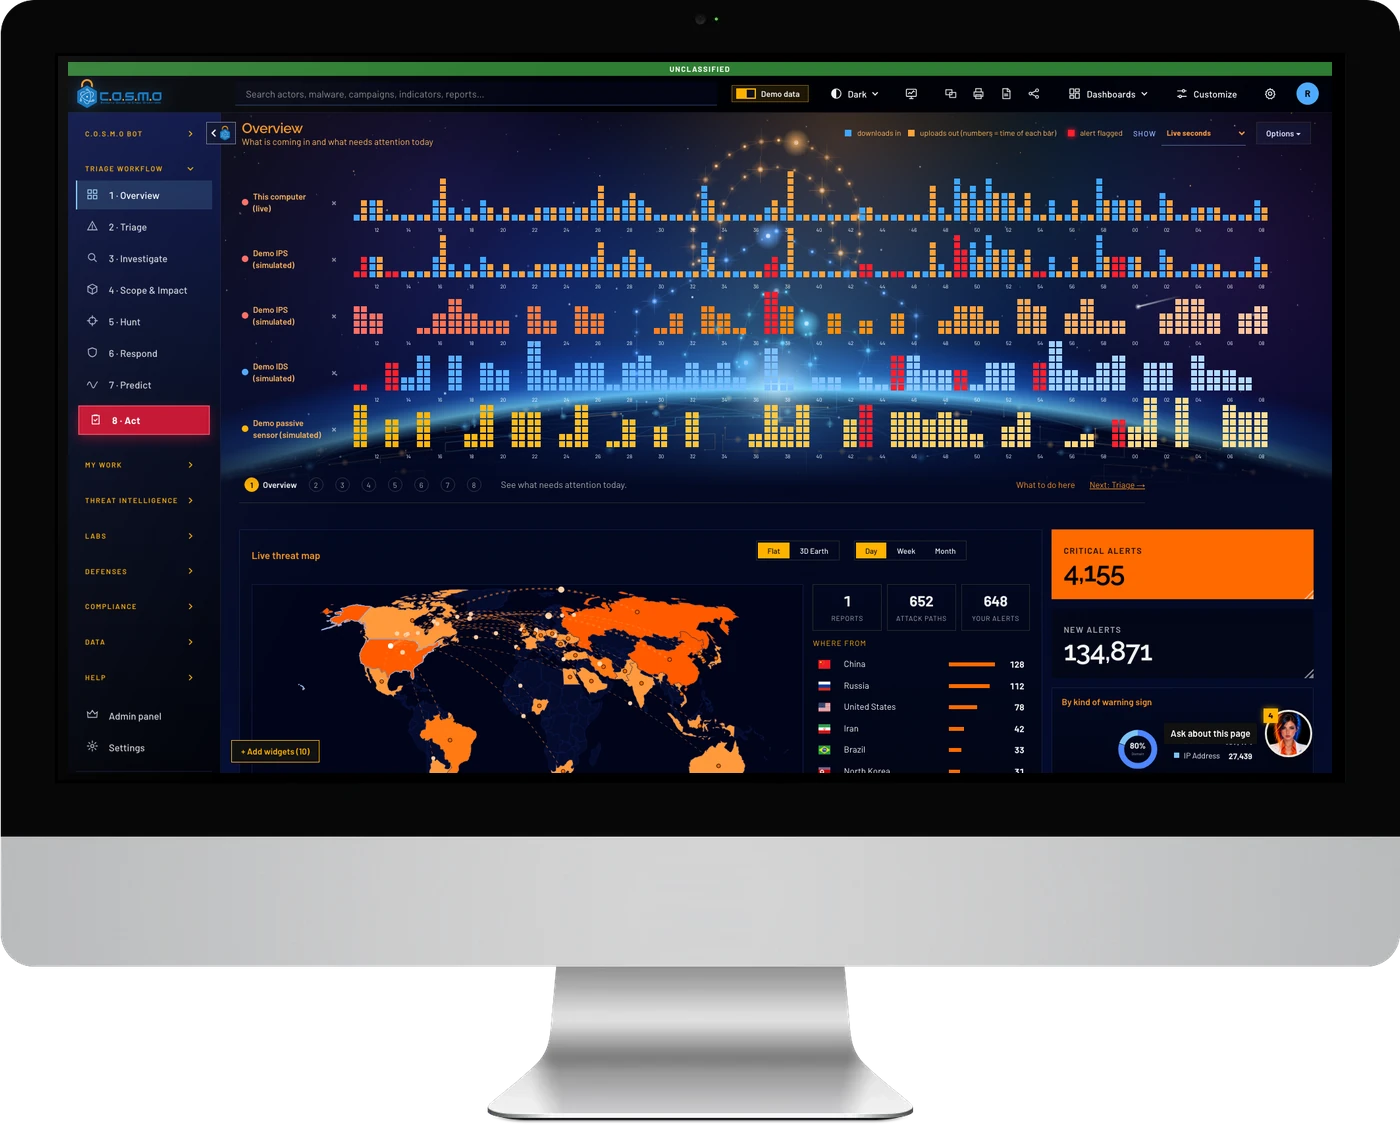
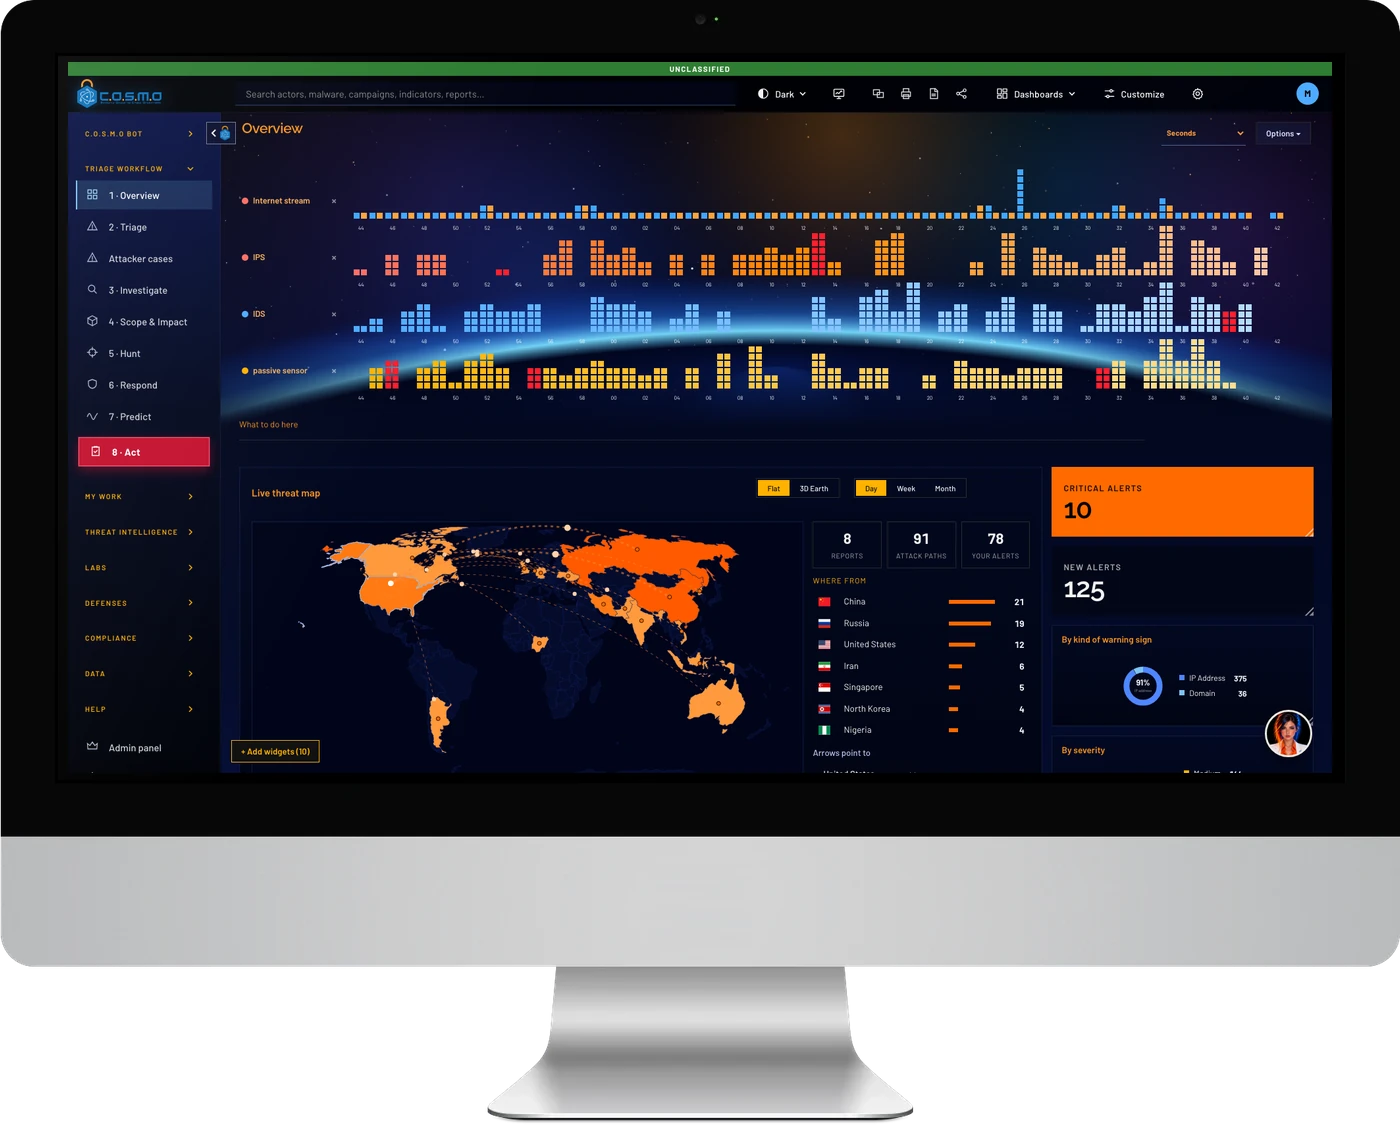
New C.O.S.M.O screenshots for the calm interface (website pictures, bot pages, laptop and iMac mockups); cache tags bumped

diff --git a/index.html b/index.html
@@ -87,7 +87,7 @@
             <p class="lead">The AI-driven cyber intelligence platform. It triages every alert, takes malware apart, assigns the work and writes the response playbooks. Your analysts approve.</p>
             <div class="btn-row"><a class="btn btn-primary" href="products.html#cosmo">About C.O.S.M.O <svg class="" aria-hidden="true" focusable="false"><use href="#i-arrow"/></svg></a><a class="btn btn-outline" href="contact.html">Ask for a demo</a></div>
           </div>
-          <div class="visual"><div class="duo"><figure class="device monitor mocked"><img src="assets/img/mock/cosmo-triage-imac.webp?v=20261103g" loading="lazy" alt="C.O.S.M.O Triage screen ranking alerts"></figure><figure class="device laptop mocked"><img src="assets/img/mock/cosmo-overview-macbook.webp?v=20261103g" loading="lazy" alt="C.O.S.M.O Overview screen with live threat map"></figure></div></div>
+          <div class="visual"><div class="duo"><figure class="device monitor mocked"><img src="assets/img/mock/cosmo-triage-imac.webp?v=20261110a" loading="lazy" alt="C.O.S.M.O Triage screen ranking alerts"></figure><figure class="device laptop mocked"><img src="assets/img/mock/cosmo-overview-macbook.webp?v=20261110a" loading="lazy" alt="C.O.S.M.O Overview screen with live threat map"></figure></div></div>
         </div>
       </div>
     </div>
@@ -231,7 +231,7 @@
           <ul class="checks"><li><svg class="" aria-hidden="true" focusable="false"><use href="#i-arrow"/></svg>Triages the whole alert queue for you: decides what is real, what can be closed and what needs a closer check</li><li><svg class="" aria-hidden="true" focusable="false"><use href="#i-arrow"/></svg>Assigns the work automatically: the right team and the right person, each with a ready-made work pack</li><li><svg class="" aria-hidden="true" focusable="false"><use href="#i-arrow"/></svg>Builds rapid-response playbooks and the fixes teams paste straight in: firewall blocks, detection rules, Splunk and Defender searches</li><li><svg class="" aria-hidden="true" focusable="false"><use href="#i-arrow"/></svg>Takes malware apart with a council of five AI analysts and writes the rules that catch it</li><li><svg class="" aria-hidden="true" focusable="false"><use href="#i-arrow"/></svg>Shows the reasons behind every score, and nothing changes until a person approves</li></ul>
           <div class="btn-row"><a class="btn btn-outline" href="products.html#cosmo">About C.O.S.M.O</a></div>
         </div>
-        <div class="tilt-in"><div class="duo"><figure class="device monitor mocked"><img src="assets/img/mock/cosmo-predict-imac.webp?v=20261103g" loading="lazy" alt="C.O.S.M.O Predict screen listing the groups most likely to come next"></figure><figure class="device laptop mocked"><img src="assets/img/mock/cosmo-overview-macbook.webp?v=20261103g" loading="lazy" alt="C.O.S.M.O Overview screen with live threat map and workflow"></figure></div></div>
+        <div class="tilt-in"><div class="duo"><figure class="device monitor mocked"><img src="assets/img/mock/cosmo-predict-imac.webp?v=20261110a" loading="lazy" alt="C.O.S.M.O Predict screen listing the groups most likely to come next"></figure><figure class="device laptop mocked"><img src="assets/img/mock/cosmo-overview-macbook.webp?v=20261110a" loading="lazy" alt="C.O.S.M.O Overview screen with live threat map and workflow"></figure></div></div>
       </div>
     </div>
   </section>

diff --git a/products.html b/products.html
@@ -88,7 +88,7 @@
         <div class="btn-row"><a class="btn btn-primary" href="https://cosmoplatform.ai">Visit cosmoplatform.ai <svg class="" aria-hidden="true" focusable="false"><use href="#i-external"/></svg></a><a class="btn btn-outline" href="contact.html">Ask for a demonstration</a></div>
       </div>
       <div class="pv">
-      <div class="tilt-in light-bg"><div class="duo"><figure class="device monitor mocked"><img src="assets/img/mock/cosmo-triage-imac.webp?v=20261103g" loading="lazy" alt="C.O.S.M.O Triage screen"></figure><figure class="device laptop mocked"><img src="assets/img/mock/cosmo-overview-macbook.webp?v=20261103g" loading="lazy" alt="C.O.S.M.O Overview screen with live threat map"></figure></div></div>
+      <div class="tilt-in light-bg"><div class="duo"><figure class="device monitor mocked"><img src="assets/img/mock/cosmo-triage-imac.webp?v=20261110a" loading="lazy" alt="C.O.S.M.O Triage screen"></figure><figure class="device laptop mocked"><img src="assets/img/mock/cosmo-overview-macbook.webp?v=20261110a" loading="lazy" alt="C.O.S.M.O Overview screen with live threat map"></figure></div></div>
     <div class="gcaps on-light" id="cosmo-capabilities">
       <div class="gcaps-head reveal">
         <p class="eyebrow">Platform capabilities</p>

diff --git a/js/capabilities-data.js b/js/capabilities-data.js
@@ -169,7 +169,7 @@ window.CYPHER_STATEMENT = {
         "Encryption and containerization meeting DoD and IC requirements"
       ],
       linkText: "ghostplatform.ai", link: "https://ghostplatform.ai" },
-    { name: "C.O.S.M.O", logo: "assets/img/cosmo-horizontal.png", screenshot: "assets/img/cosmo-overview.jpg",
+    { name: "C.O.S.M.O", logo: "assets/img/cosmo-horizontal.png", screenshot: "assets/img/cosmo-overview.jpg?v=20261110a",
       text: "Cognitive Operations & Security Monitoring Orchestrator. The **AI-driven cyber intelligence platform**: its AI does the heavy lifting of a security team, from the first alert to the fix, and analysts approve.",
       points: [
         "Auto-triages the whole alert queue: real, closed or needs checking",
